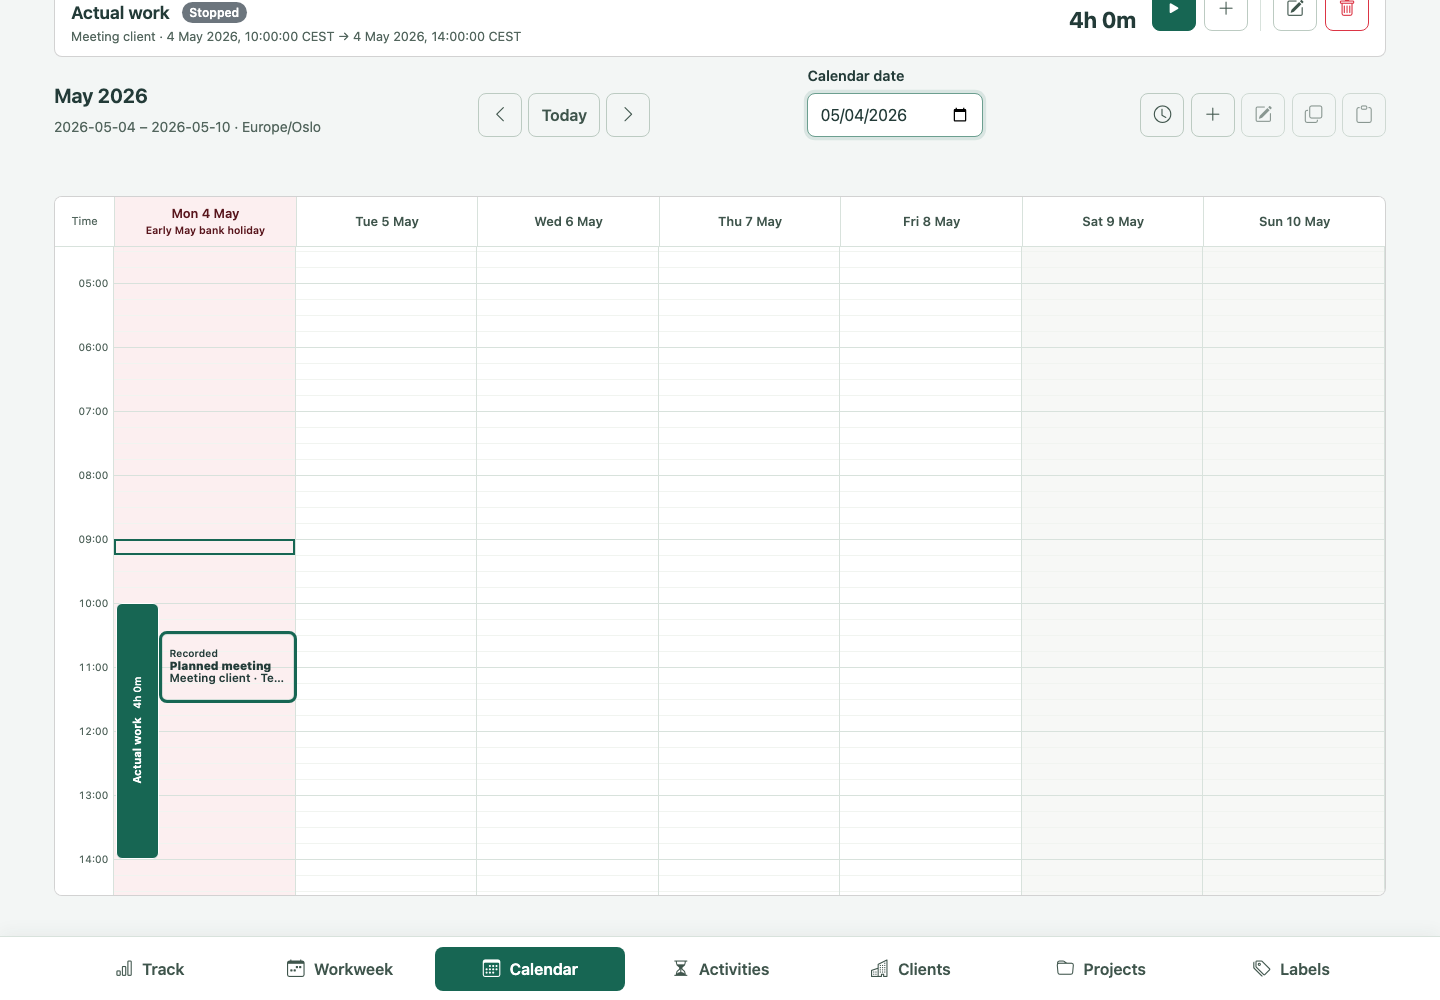
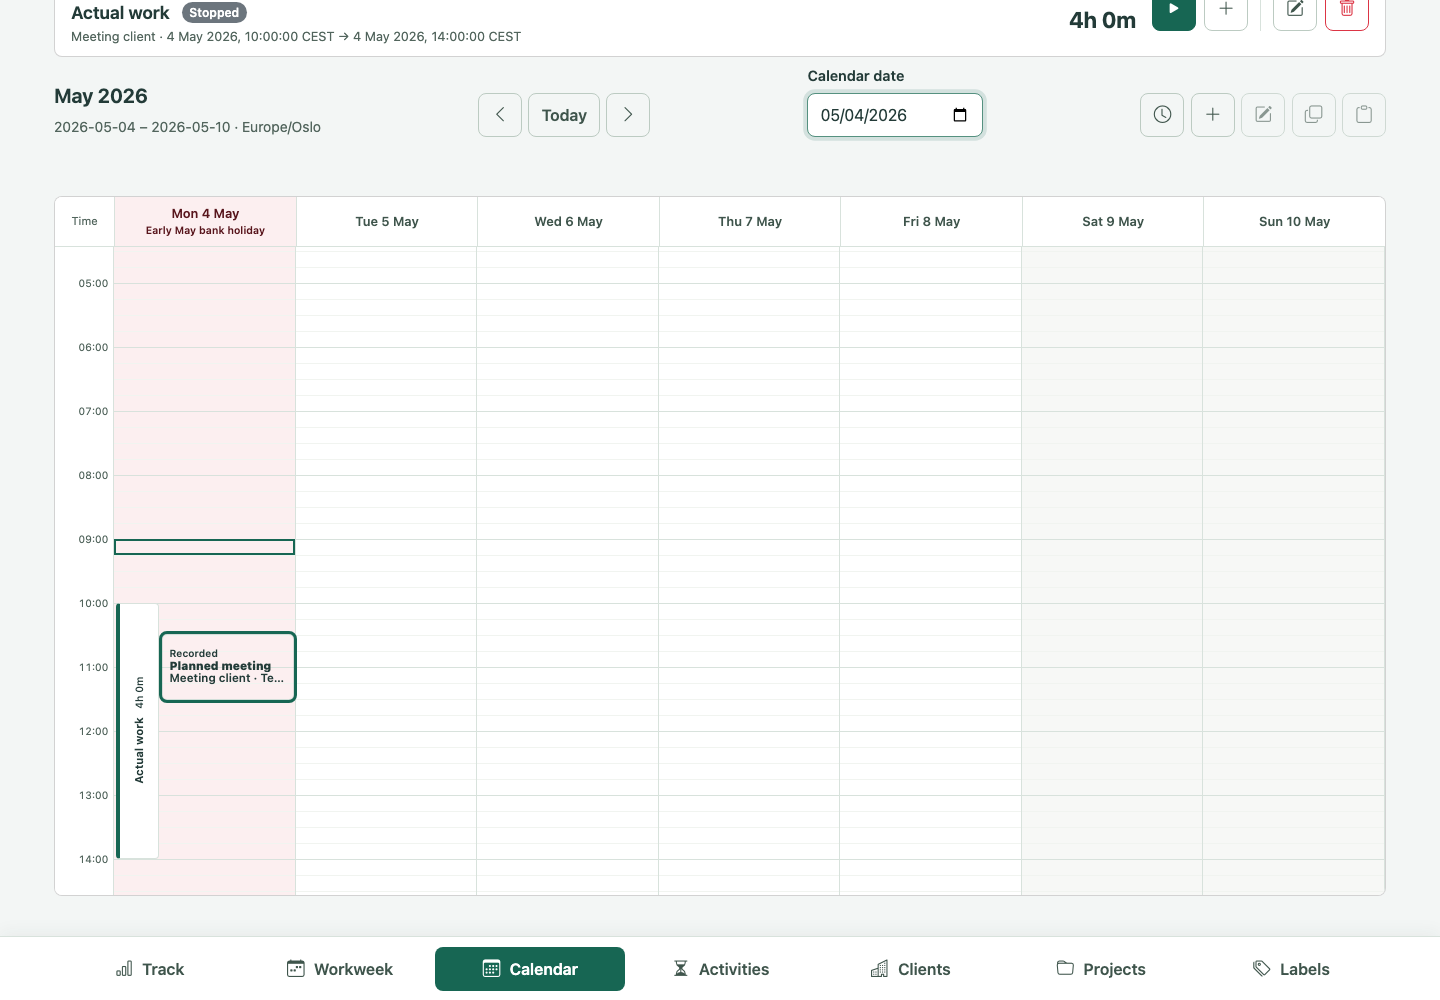
Use shared calendar indicators for work sessions

Changed region(s): [[0.0625, 0.589, 0.125, 0.868]]

diff --git a/server/web/src/calendar.css b/server/web/src/calendar.css
@@ -3,7 +3,7 @@
 .calendar-toolbar .form-label{flex:0 0 auto}
 .calendar-toolbar .hint{margin-bottom:0}
 .calendar-toolbar .btn{height:2.75rem;padding-block:0}
-.calendar-navigation,.calendar-tools{display:flex;align-items:center;gap:.4rem}.calendar-toolbar input{width:11rem}.calendar-scroll{display:block;max-width:100%;height:min(70vh,850px);min-height:330px;overflow:auto;position:relative;overscroll-behavior:contain}.calendar-grid{display:grid;grid-template-columns:3.7rem repeat(7,minmax(140px,1fr));grid-template-rows:3.1rem var(--calendar-height);min-width:1080px;isolation:isolate}.calendar-heading,.calendar-corner{position:sticky;top:0;background:var(--bs-body-bg);z-index:5;border-bottom:1px solid var(--line);display:flex;align-items:center;justify-content:center}.calendar-heading{border-left:1px solid var(--line)}.calendar-heading button{border:0;background:transparent;font-size:.8rem;padding:.5rem}.calendar-heading.today{background:#e0eee6}.calendar-corner{left:0;z-index:7;font-size:.7rem;color:var(--muted)}.calendar-hours{height:var(--calendar-height);position:sticky;left:0;background:var(--bs-body-bg);z-index:4;border-right:1px solid var(--line)}.calendar-hours span{position:absolute;right:.3rem;font-size:.65rem;color:var(--muted);line-height:1;transform:translateY(-50%);font-variant-numeric:tabular-nums}.calendar-hours span:first-child{transform:none}.calendar-day{height:var(--calendar-height);position:relative;border-right:1px solid var(--line);background:var(--bs-body-bg);min-width:0}.calendar-day.weekend{background:#f7f8f6}.calendar-day:focus-visible{outline:2px solid var(--accent);outline-offset:-2px}.calendar-slot{position:absolute;height:16px;width:100%;border-top:1px solid #f1f4f0}.calendar-slot.hour{border-color:var(--line)}.calendar-slot.unavailable{background:repeating-linear-gradient(135deg,#eef1ed,#eef1ed 4px,#e2e7e0 4px,#e2e7e0 5px)}.calendar-skipped{font-size:.75rem;padding:.4rem;position:sticky;top:3.5rem}.calendar-event{position:absolute;z-index:2;border-radius:4px;overflow:hidden;min-width:0}.calendar-session{border-radius:6px;background:#0f6d92;color:white;cursor:grab;touch-action:none;user-select:none;display:flex;align-items:center;justify-content:center;border:1px solid #0a5877}.calendar-session[data-selected=true]{outline:2px solid var(--accent);outline-offset:1px;z-index:3}.calendar-session:focus-visible{outline:3px solid #deb44b;outline-offset:1px}.calendar-session-label{writing-mode:vertical-rl;transform:rotate(180deg);display:flex;align-items:center;gap:.5rem;max-height:100%;min-height:0;overflow:hidden;padding:.75rem 0}.calendar-session-title{white-space:nowrap;text-overflow:ellipsis;overflow:hidden;font-size:.7rem;font-weight:650;min-height:0}.calendar-session-duration{white-space:nowrap;font-size:.65rem;font-weight:500;font-variant-numeric:tabular-nums;flex-shrink:0}.calendar-resize{position:absolute;left:0;width:100%;height:min(12px,50%);min-width:0;border:0;border-radius:0;padding:0;background:transparent;color:inherit;cursor:ns-resize;touch-action:none;opacity:0;z-index:1}.calendar-resize:after{content:'';display:block;margin:auto;width:10px;max-width:50%;height:2px;border-radius:1px;background:currentColor}.calendar-session:hover .calendar-resize,.calendar-session:focus-visible .calendar-resize,.calendar-session:has(:focus-visible) .calendar-resize{opacity:1}.calendar-resize.start{top:0}.calendar-resize.end{bottom:0}.calendar-resize:focus-visible{outline:2px solid #deb44b;outline-offset:-2px;background:#ffffff40}.calendar-task{background:#f7e8ee;border:1px solid #dfbdca;border-left:3px solid #af547b;color:#43283a;padding:.25rem;overflow:auto}.calendar-task h3{font-size:.75rem;line-height:1.25;margin:0 0 .2rem;overflow-wrap:anywhere}.calendar-task ul{list-style:none;padding:0;margin:0}.calendar-task li{margin:.15rem 0}.calendar-task li button{font-size:.7rem;background:transparent;border:0;text-align:left;padding:0;line-height:1.15;display:block;width:100%;font-weight:400;overflow-wrap:anywhere;color:inherit}.calendar-task small{font-size:.7rem;line-height:1.2;display:block;color:#705365}.calendar-cursor{position:absolute;left:0;right:0;height:16px;border:2px solid var(--accent);pointer-events:none;z-index:1}.calendar-session.preview{opacity:.8;pointer-events:none;z-index:6;box-shadow:0 2px 7px #18352b66}.calendar-session.drag-source{opacity:.2}#calendar-message{min-height:1.4em}
+.calendar-navigation,.calendar-tools{display:flex;align-items:center;gap:.4rem}.calendar-toolbar input{width:11rem}.calendar-scroll{display:block;max-width:100%;height:min(70vh,850px);min-height:330px;overflow:auto;position:relative;overscroll-behavior:contain}.calendar-grid{display:grid;grid-template-columns:3.7rem repeat(7,minmax(140px,1fr));grid-template-rows:3.1rem var(--calendar-height);min-width:1080px;isolation:isolate}.calendar-heading,.calendar-corner{position:sticky;top:0;background:var(--bs-body-bg);z-index:5;border-bottom:1px solid var(--line);display:flex;align-items:center;justify-content:center}.calendar-heading{border-left:1px solid var(--line)}.calendar-heading button{border:0;background:transparent;font-size:.8rem;padding:.5rem}.calendar-heading.today{background:#e0eee6}.calendar-corner{left:0;z-index:7;font-size:.7rem;color:var(--muted)}.calendar-hours{height:var(--calendar-height);position:sticky;left:0;background:var(--bs-body-bg);z-index:4;border-right:1px solid var(--line)}.calendar-hours span{position:absolute;right:.3rem;font-size:.65rem;color:var(--muted);line-height:1;transform:translateY(-50%);font-variant-numeric:tabular-nums}.calendar-hours span:first-child{transform:none}.calendar-day{height:var(--calendar-height);position:relative;border-right:1px solid var(--line);background:var(--bs-body-bg);min-width:0}.calendar-day.weekend{background:#f7f8f6}.calendar-day:focus-visible{outline:2px solid var(--accent);outline-offset:-2px}.calendar-slot{position:absolute;height:16px;width:100%;border-top:1px solid #f1f4f0}.calendar-slot.hour{border-color:var(--line)}.calendar-slot.unavailable{background:repeating-linear-gradient(135deg,#eef1ed,#eef1ed 4px,#e2e7e0 4px,#e2e7e0 5px)}.calendar-skipped{font-size:.75rem;padding:.4rem;position:sticky;top:3.5rem}.calendar-event{position:absolute;z-index:2;border-radius:4px;overflow:hidden;min-width:0}.calendar-session{cursor:grab;touch-action:none;user-select:none;display:flex;align-items:center;justify-content:center}.calendar-session[data-selected=true]{outline:2px solid var(--accent);outline-offset:1px;z-index:3}.calendar-session:focus-visible{outline:3px solid #deb44b;outline-offset:1px}.calendar-session-label{writing-mode:vertical-rl;transform:rotate(180deg);display:flex;align-items:center;gap:.5rem;max-height:100%;min-height:0;overflow:hidden;padding:.75rem 0}.calendar-session-title{white-space:nowrap;text-overflow:ellipsis;overflow:hidden;font-size:.7rem;font-weight:650;min-height:0}.calendar-session-duration{white-space:nowrap;font-size:.65rem;font-weight:500;font-variant-numeric:tabular-nums;flex-shrink:0}.calendar-resize{position:absolute;left:0;width:100%;height:min(12px,50%);min-width:0;border:0;border-radius:0;padding:0;background:transparent;color:inherit;cursor:ns-resize;touch-action:none;opacity:0;z-index:1}.calendar-resize:after{content:'';display:block;margin:auto;width:10px;max-width:50%;height:2px;border-radius:1px;background:currentColor}.calendar-session:hover .calendar-resize,.calendar-session:focus-visible .calendar-resize,.calendar-session:has(:focus-visible) .calendar-resize{opacity:1}.calendar-resize.start{top:0}.calendar-resize.end{bottom:0}.calendar-resize:focus-visible{outline:2px solid #deb44b;outline-offset:-2px;background:#ffffff40}.calendar-task{background:#f7e8ee;border:1px solid #dfbdca;border-left:3px solid #af547b;color:#43283a;padding:.25rem;overflow:auto}.calendar-task h3{font-size:.75rem;line-height:1.25;margin:0 0 .2rem;overflow-wrap:anywhere}.calendar-task ul{list-style:none;padding:0;margin:0}.calendar-task li{margin:.15rem 0}.calendar-task li button{font-size:.7rem;background:transparent;border:0;text-align:left;padding:0;line-height:1.15;display:block;width:100%;font-weight:400;overflow-wrap:anywhere;color:inherit}.calendar-task small{font-size:.7rem;line-height:1.2;display:block;color:#705365}.calendar-cursor{position:absolute;left:0;right:0;height:16px;border:2px solid var(--accent);pointer-events:none;z-index:1}.calendar-session.preview{opacity:.8;pointer-events:none;z-index:6;box-shadow:0 2px 7px #18352b66}.calendar-session.drag-source{opacity:.2}#calendar-message{min-height:1.4em}
 @media(max-width:640px){.calendar-toolbar{gap:.5rem}.calendar-toolbar>div:first-child{width:100%}.calendar-tools{margin-left:auto}.calendar-scroll{display:block;height:68vh}.calendar-navigation button{padding:.5rem}}
 #calendar-message{height:2.8em;min-height:2.8em;overflow:auto;overflow-wrap:anywhere;margin:.25rem 0}.calendar-task h3{display:-webkit-box;-webkit-line-clamp:2;-webkit-box-orient:vertical;overflow:hidden;max-height:2.6em}.calendar-task li button{white-space:nowrap;overflow:hidden;text-overflow:ellipsis}#calendar-dst{font-size:.75rem;margin:.2rem 0}
 @media(max-width:640px){.calendar-toolbar h2{font-size:1.1rem}.calendar-toolbar>div:first-child{width:100%;flex-basis:100%}.calendar-toolbar input{width:10rem}}

diff --git a/server/web/src/style.css b/server/web/src/style.css
@@ -229,11 +229,11 @@ fieldset label { display: flex; align-items: center; gap: .65rem; font-weight: 4
 }
 .track-holiday-status { margin-top: .75rem; }
 .track-holiday-status a { color: var(--accent); }
-.track-client-day, .calendar-planned, .calendar-all-day-event { border: 1px solid var(--line); border-inline-start: 4px solid var(--client-color, var(--accent)); border-radius: .3rem; background: var(--bs-body-bg); color: var(--bs-body-color); }
+.track-client-day, .calendar-session, .calendar-planned, .calendar-all-day-event { border: 1px solid var(--line); border-inline-start: 4px solid var(--client-color, var(--accent)); border-radius: .3rem; background: var(--bs-body-bg); color: var(--bs-body-color); }
 .track-client-day { display: flex; flex-direction: column; width: 100%; min-height: 2.75rem; text-align: left; padding: .3rem .4rem; margin-bottom: .3rem; font-size: .8rem; }
 .track-client-day > * { max-width: 100%; overflow: hidden; text-overflow: ellipsis; white-space: nowrap; }
 .track-client-day-time { font-variant-numeric: tabular-nums; }
-button.track-client-day:hover, .calendar-planned:hover, .calendar-all-day-event:hover { background: var(--bs-tertiary-bg); color: var(--bs-body-color); border-color: var(--line); border-inline-start-color: var(--client-color, var(--accent)); }
+button.track-client-day:hover, .calendar-session:hover, .calendar-planned:hover, .calendar-all-day-event:hover { background: var(--bs-tertiary-bg); color: var(--bs-body-color); border-color: var(--line); border-inline-start-color: var(--client-color, var(--accent)); }
 button.track-client-day:disabled { opacity: .65; }
 .track-client-day-time-short { display: none; font-variant-numeric: tabular-nums; }
 @media(max-width: 767px) {
@@ -245,7 +245,7 @@ button.track-client-day:disabled { opacity: .65; }
   .track-day { height: 6rem; padding: .1rem; }
   .track-date { width: 1.5rem; height: 1.5rem; }
   .track-client-day { padding: .25rem .15rem; font-size: .75rem; }
-  .track-client-day, .calendar-planned, .calendar-all-day-event { border-inline-start-width: 3px; }
+  .track-client-day, .calendar-session, .calendar-planned, .calendar-all-day-event { border-inline-start-width: 3px; }
   .track-month th { font-size: .75rem; }
   .track-client-day-time { display: none; }
   .track-client-day-time-short { display: block; }

diff --git a/server/web/tests/calendar.spec.js b/server/web/tests/calendar.spec.js
@@ -191,11 +191,14 @@ test('calendar shows seven days and editable work sessions while keeping activit
     await calendar(page);
     await expect(page.locator('[data-tab=calendar]')).toHaveAttribute('aria-current','page');
     await expect(bar(page,f.session.id)).toBeAttached();
-    await expect(bar(page,f.session.id)).toHaveCSS('background-color','rgb(255, 221, 136)');
-    await expect(bar(page,f.session.id)).toHaveCSS('color','rgb(0, 0, 0)');
+    const appearance=await page.evaluate(color=>{
+      const reference=document.createElement('div');reference.className='calendar-event calendar-planned';reference.dataset.imported='true';reference.style.setProperty('--client-color',color);document.body.append(reference);
+      const style=getComputedStyle(reference),values=Object.fromEntries(['background-color','color','border-top-style','border-top-color','border-inline-start-color','border-inline-start-width','border-radius'].map(property=>[property,style.getPropertyValue(property)]));reference.remove();return values;
+    },f.client.color);
+    for(const [property,value] of Object.entries(appearance))await expect(bar(page,f.session.id)).toHaveCSS(property,value);
     await expect(bar(page,f.session.id).locator('.calendar-session-title')).toHaveText(f.session.summary);
     await expect(bar(page,f.session.id).locator('.calendar-session-duration')).toHaveText('8h 0m');
-    await expect(bar(page,f.session.id)).toHaveCSS('border-radius','6px');
+    await expect(bar(page,f.session.id).locator('.calendar-session-label')).toHaveCSS('writing-mode','vertical-rl');
     const handles=bar(page,f.session.id).locator('.calendar-resize');
     await position(page,bar(page,f.session.id));await page.locator('#calendar-today').hover();
     await expect(handles.first()).toHaveCSS('opacity','0');

diff --git a/server/web/src/calendar.js b/server/web/src/calendar.js
@@ -195,7 +195,7 @@ export class WeekCalendar {
     const session = piece.session,bar = node('div', undefined, `calendar-event calendar-session${preview ? ' preview' : ''}`);
     bar.dataset.sessionId = session.id;bar.dataset.date = piece.date;bar.dataset.version = String(session.version);this.bounds(bar, piece, 'session');
     const client = this.data.clients.find((client) => client.id === session.clientId),colors = clientColors(client?.color);
-    bar.style.backgroundColor = colors.background;bar.style.color = colors.foreground;bar.style.borderColor = colors.foreground;
+    bar.style.setProperty('--client-color', colors.background);
     const elapsed = instantNanos(session.end || this.data.report.generatedAt) - instantNanos(session.start);
     const duration = nanosText(elapsed > 0n ? elapsed : 0n);
     const labels = (session.labelIds || []).map((id) => this.data.labels.find((label) => label.id === id)?.name).filter(Boolean).join(', ');
